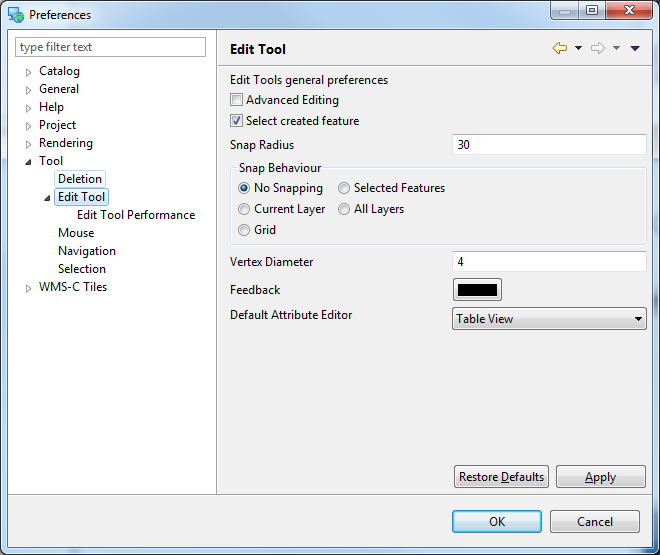
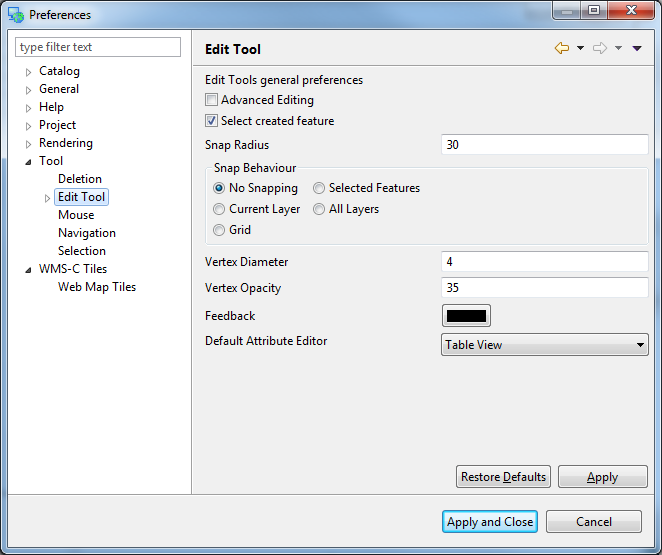
[hk] fixes property naming, upd. docs

diff --git a/plugins/org.locationtech.udig.tool.edit/src/org/locationtech/udig/tool/edit/internal/Messages.java b/plugins/org.locationtech.udig.tool.edit/src/org/locationtech/udig/tool/edit/internal/Messages.java
@@ -75,7 +75,7 @@ public class Messages extends NLS {
 	public static String EditToolPreferences_selectedGeom;
 	public static String EditToolPreferences_advanced_editing_name;
 	public static String EditToolPreferences_vertexDiameter;
-	public static String EditToolPreferneces_vertexOpacity;
+	public static String EditToolPreferences_vertexOpacity;
 	public static String EditToolPreferences_grid;
 	public static String EditToolPreferences_all;
 	public static String EditToolPreferences_current;

diff --git a/plugins/org.locationtech.udig.tool.edit/src/org/locationtech/udig/tools/edit/preferences/EditToolPreferences.java b/plugins/org.locationtech.udig.tool.edit/src/org/locationtech/udig/tools/edit/preferences/EditToolPreferences.java
@@ -75,7 +75,7 @@ public class EditToolPreferences extends FieldEditorPreferencePage
                 getFieldEditorParent()));
 
         IntegerFieldEditor vertexOpacity = new IntegerFieldEditor(PreferenceConstants.P_VERTEX_OPACITY,
-                Messages.EditToolPreferneces_vertexOpacity,
+                Messages.EditToolPreferences_vertexOpacity,
                 getFieldEditorParent());
         vertexOpacity.setValidRange(0, 100);
         addField(vertexOpacity);
